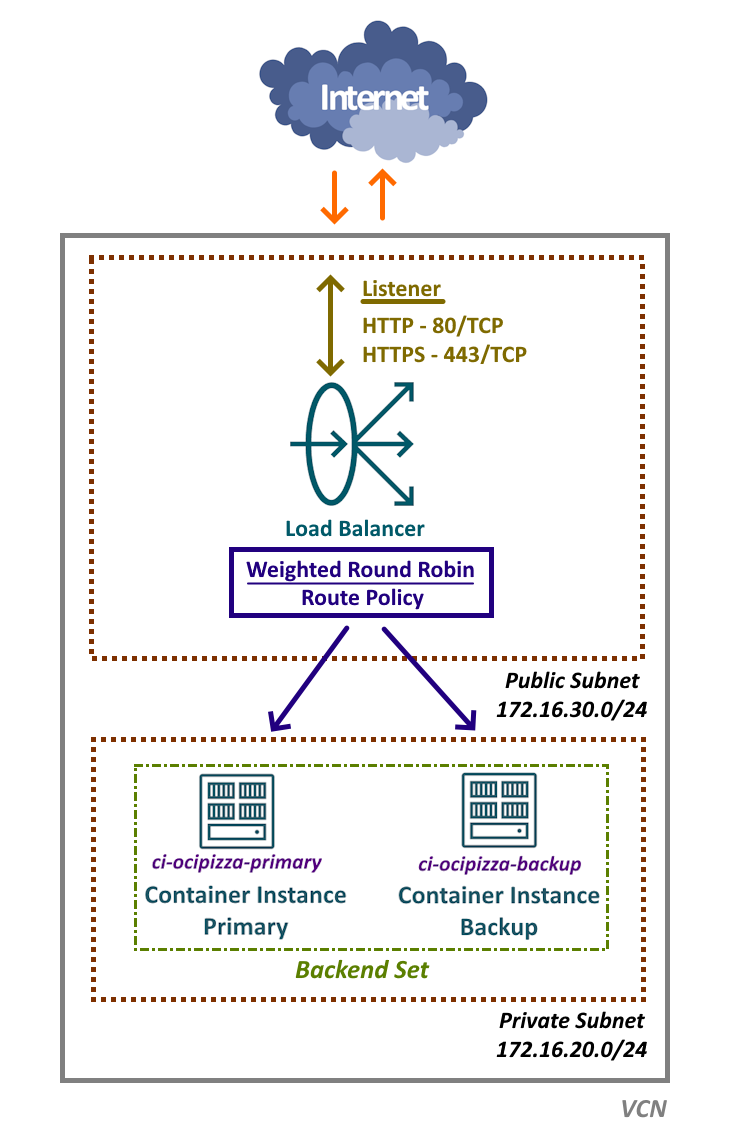
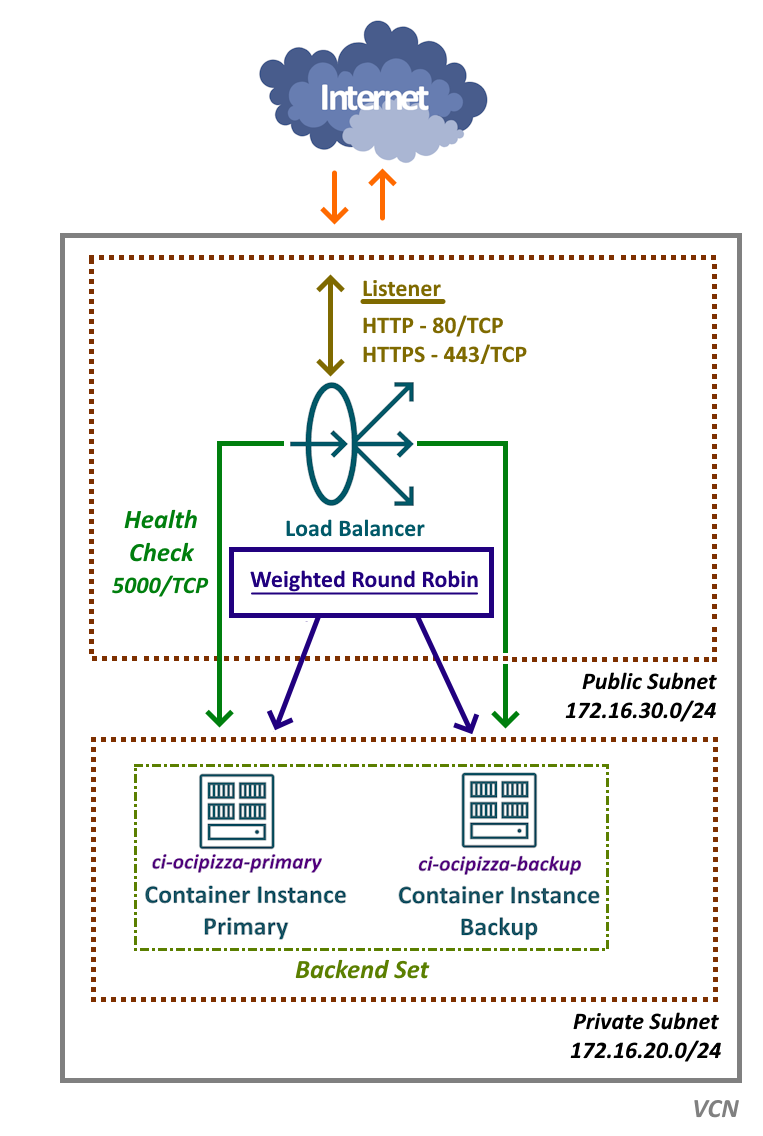
Working on the OCI Pizza documentation.

Changed region(s): [[0.06, 0.0, 0.9905, 0.9859], [0.7503, 0.2157, 0.8104, 0.2465]]

diff --git a/docs/lb.md b/docs/lb.md
@@ -66,4 +66,90 @@ Antes de avançar com a criação do Load Balancer que será utilizado pela apli
 
 ## Load Balancer da aplicação OCI Pizza
 
+A arquitetura do Load Balancer utilizado pela aplicação OCI Pizza é ilustrada no desenho abaixo:
+
 ![alt_text](./imgs/lb-1.png "OCI Pizza Load Balancer")
+
+O Load Balancer terá um _Listener HTTP_ na porta 80/TCP e outro _HTTPS_ na porta 443/TCP. A política de balanceamento selecionada será a _Weighted Round Robin_, e o monitoramento _Health Check_ será realizado na porta 5000/TCP. Além disso, um dos _Container Instances_ será configurado como _Backup_ no _Backend Set_. Caso o Health Check falhe, o Container Instance Backup assumirá automaticamente a função de _Primário_, garantindo assim a continuidade da disponibilidade da aplicação.
+
+## Reserva do IP Público para o Load Balancer
+
+As configurações iniciam-se com a [reserva de um endereço IP público](https://docs.oracle.com/en-us/iaas/Content/Network/Tasks/managingpublicIPs.htm#overview) para o Load Balancer. Essa é uma prática recomendada, pois assegura que o endereço IP permaneça fixo, facilitando as configurações de DNS e garantindo que o IP esteja reservado exclusivamente para o seu ambiente. Caso o Load Balancer seja acidentalmente excluído, você poderá criar um novo e atribuir o endereço IP previamente reservado, evitando assim a necessidade de reconfigurar o DNS público da aplicação.
+
+Para reservar o endereço IP, utilize o seguinte comando:
+
+```
+$ oci network public-ip create \
+    --compartment-id "ocid1.compartment.oc1..aaaaaaaaaaaaaaaabbbbbbbbccc" \
+    --lifetime "RESERVED" \
+    --display-name "pubip-lb-saopaulo" \
+    --wait-for-state "AVAILABLE"
+```
+
+Para verificar qual foi o endereço IP que o OCI reservou, utilize o seguinte comando:
+
+```
+$ oci network public-ip list \
+    --compartment-id "ocid1.compartment.oc1..aaaaaaaaaaaaaaaabbbbbbbbccc" \
+    --lifetime "RESERVED" \
+    --scope "REGION" \
+    --query data[].\"ip-address\" \
+    --all
+[
+  "137.131.197.197"
+]
+```
+
+>_**__NOTA:__** Se mais de um endereço IP tiver sido reservado, o comando acima retornará mais de um._
+
+## Criando o Load Balancer
+
+### Load Balancer
+
+Antes de criar o Load Balancer, é necessário obter o OCID do Endereço IP Público que foi reservado. Essa informação pode ser obtida por meio do seguinte comando:
+
+```
+$ oci network public-ip list \
+    --compartment-id "ocid1.compartment.oc1..aaaaaaaaaaaaaaaabbbbbbbbccc" \
+    --lifetime "RESERVED" \
+    --scope "REGION" \
+    --all \
+    --query 'data[?name=="pubip-lb-saopaulo"].id'
+[
+  "ocid1.publicip.oc1.sa-saopaulo-1.aaaaaaaaaaaaaaaabbbbbbbbccc"
+]
+```
+
+Também é necessário obter o OCID da sub-rede pública onde o Load Balancer será criado:
+
+```
+$ oci network subnet list \
+    --compartment-id "ocid1.compartment.oc1..aaaaaaaaaaaaaaaabbbbbbbbccc" \
+    --display-name "subnpub" \
+    --lifecycle-state "AVAILABLE" \
+    --query 'data[].id'
+[
+  "ocid1.subnet.oc1.sa-saopaulo-1.aaaaaaaaaaaaaaaabbbbbbbbccc"
+]
+```
+
+Com essas informações, será criado um Load Balancer com uma largura de banda máxima de 10 Mbps:
+
+```
+$ oci lb load-balancer create \
+    --compartment-id "ocid1.compartment.oc1..aaaaaaaaaaaaaaaabbbbbbbbccc" \
+    --display-name "lb-saopaulo" \
+    --shape-name "flexible" \
+    --shape-details "{\"minimumBandwidthInMbps\": 10, \"maximumBandwidthInMbps\": 10}" \
+    --subnet-ids "[\"ocid1.subnet.oc1.sa-saopaulo-1.aaaaaaaaaaaaaaaabbbbbbbbccc\"]" \
+    --is-private "false" \
+    --reserved-ips "[{\"id\": \"ocid1.publicip.oc1.sa-saopaulo-1.aaaaaaaaaaaaaaaabbbbbbbbccc\"}]" \
+    --wait-for-state "SUCCEEDED"
+```
+
+### Backend
+
+### Backend Set
+
+```
+```

diff --git a/docs/container-instances.md b/docs/container-instances.md
@@ -48,13 +48,13 @@ $ oci container-instances container-instance list-shapes \
 
 Para a aplicação OCI Pizza, será usado o shape CI.Standard.E4.Flex com 4 GB de memória RAM e 2 OCPUs.
 
-## Criação do Container Instance
+## Container Instance da aplicação OCI Pizza
 
 Para criar um Container Instance, é necessário especificar a URL da imagem do contêiner armazenada no [OCIR](https://docs.oracle.com/en-us/iaas/Content/Registry/home.htm), além de fornecer detalhes sobre o shape, como a quantidade de OCPUs e memória. Também é possível definir variáveis de ambiente, o a[availability domain](https://docs.oracle.com/en-us/iaas/Content/General/Concepts/regions.htm) e o OCID da sub-rede a ser utilizada. Esses elementos são fundamentais para garantir que o contêiner seja configurado de acordo com as necessidades da aplicação.
 
 Os comandos para a criação dos dois Container Instances na região _Brazil East (São Paulo)_ podem ser consultados neste [script](../scripts/ci-saopaulo.sh).
 
-Abaixo o comando de exemplo para se criar o Container Instance primário:
+Abaixo o comando de exemplo para se criar o Container Instance primário (ci-ocipizza-primary):
 
 ```
 $ oci container-instances container-instance create \

diff --git a/docs/network.md b/docs/network.md
@@ -1,6 +1,12 @@
-```
-oci iam availability-domain list --region sa-saopaulo-1 --compartment-id "$COMPARTMENT_OCID" --all --query "data[].name"
-[
-  "ERDj:SA-SAOPAULO-1-AD-1"
-]
-```
+# O Serviço de Redes do OCI
+
+Antes de iniciar a criação de qualquer recurso no OCI, é necessário configurar uma rede. Isso se deve ao fato de que a maioria dos serviços disponíveis no OCI, assim como os serviços que serão utilizados pela aplicação OCI Pizza, dependem de uma rede adequadamente configurada e pronta para uso.
+
+>_**__NOTA:__** Um recurso, no contexto de computação em nuvem e tecnologia da informação, refere-se a qualquer componente ou serviço que pode ser utilizado para construir, implementar e gerenciar aplicações e sistemas._
+
+O Serviço de Redes do OCI disponibiliza versões virtuais da maioria dos componentes de redes tradicionais que conhecemos. A configuração da rede é um pré-requisito essencial para o funcionamento de qualquer aplicação na nuvem.
+
+A topologia de rede a seguir será adotada para a aplicação OCI Pizza:
+
+![alt_text](./imgs/network-topology-1.png "Network Topology 1")
+

diff --git a/README.md b/README.md
@@ -19,8 +19,8 @@ Bora entender...
 
 ## Sumário
 
-0. Pré-requisitos
-1. [A Rede da aplicação OCI Pizza](./docs/network.md)
+0. [Bem-vindo ao OCI](./docs/welcome.md)
+1. [O Serviço de Redes do OCI](./docs/network.md)
 2. [Entendendo os Contêineres](./docs/containers.md)
 3. [Container Instances](./docs/container-instances.md)
 4. [Expondo a aplicação por meio do Load Balancer](./docs/lb.md)

diff --git a/docs/dns.md b/docs/dns.md
@@ -1,4 +1,4 @@
-# DNS
+# DNS Público
 
 ## Configurando o Serviço de DNS Global
 

diff --git a/docs/welcome.md b/docs/welcome.md
@@ -1,0 +1,1 @@
+# Bem-vindo ao OCI
